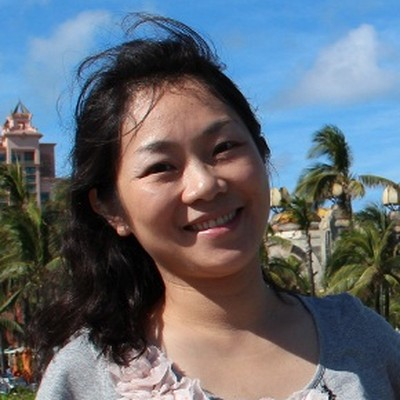
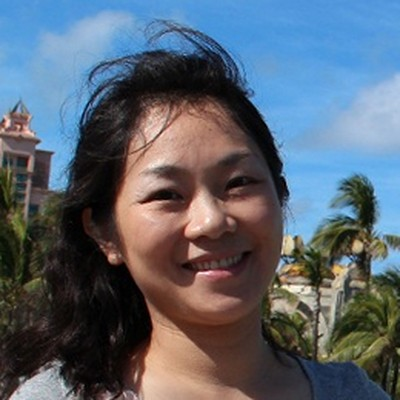
Straighten portrait and crop above the shirt
Claude-Session: https://claude.ai/code/session_01ScnYJ76TRjiVUgBHJFWX4w

diff --git a/index.html b/index.html
@@ -352,7 +352,7 @@ footer{border-top:1px solid var(--line);padding-top:18px;font-size:13px;color:va
 <div class="wrap">
   <header class="mast">
     <div>
-      <div class="who"><img class="portrait" src="figures/portrait.jpg?v=5" alt="Photo of Jing Yang" width="100" height="100"><div class="ident">
+      <div class="who"><img class="portrait" src="figures/portrait.jpg?v=6" alt="Photo of Jing Yang" width="100" height="100"><div class="ident">
         <div class="eyebrow">Human–AI Collaborative Analytics · Information Visualization</div>
         <h1>Jing Yang</h1>
         <p class="role">Professor, Department of Machine Learning, University of North Carolina at Charlotte</p>
